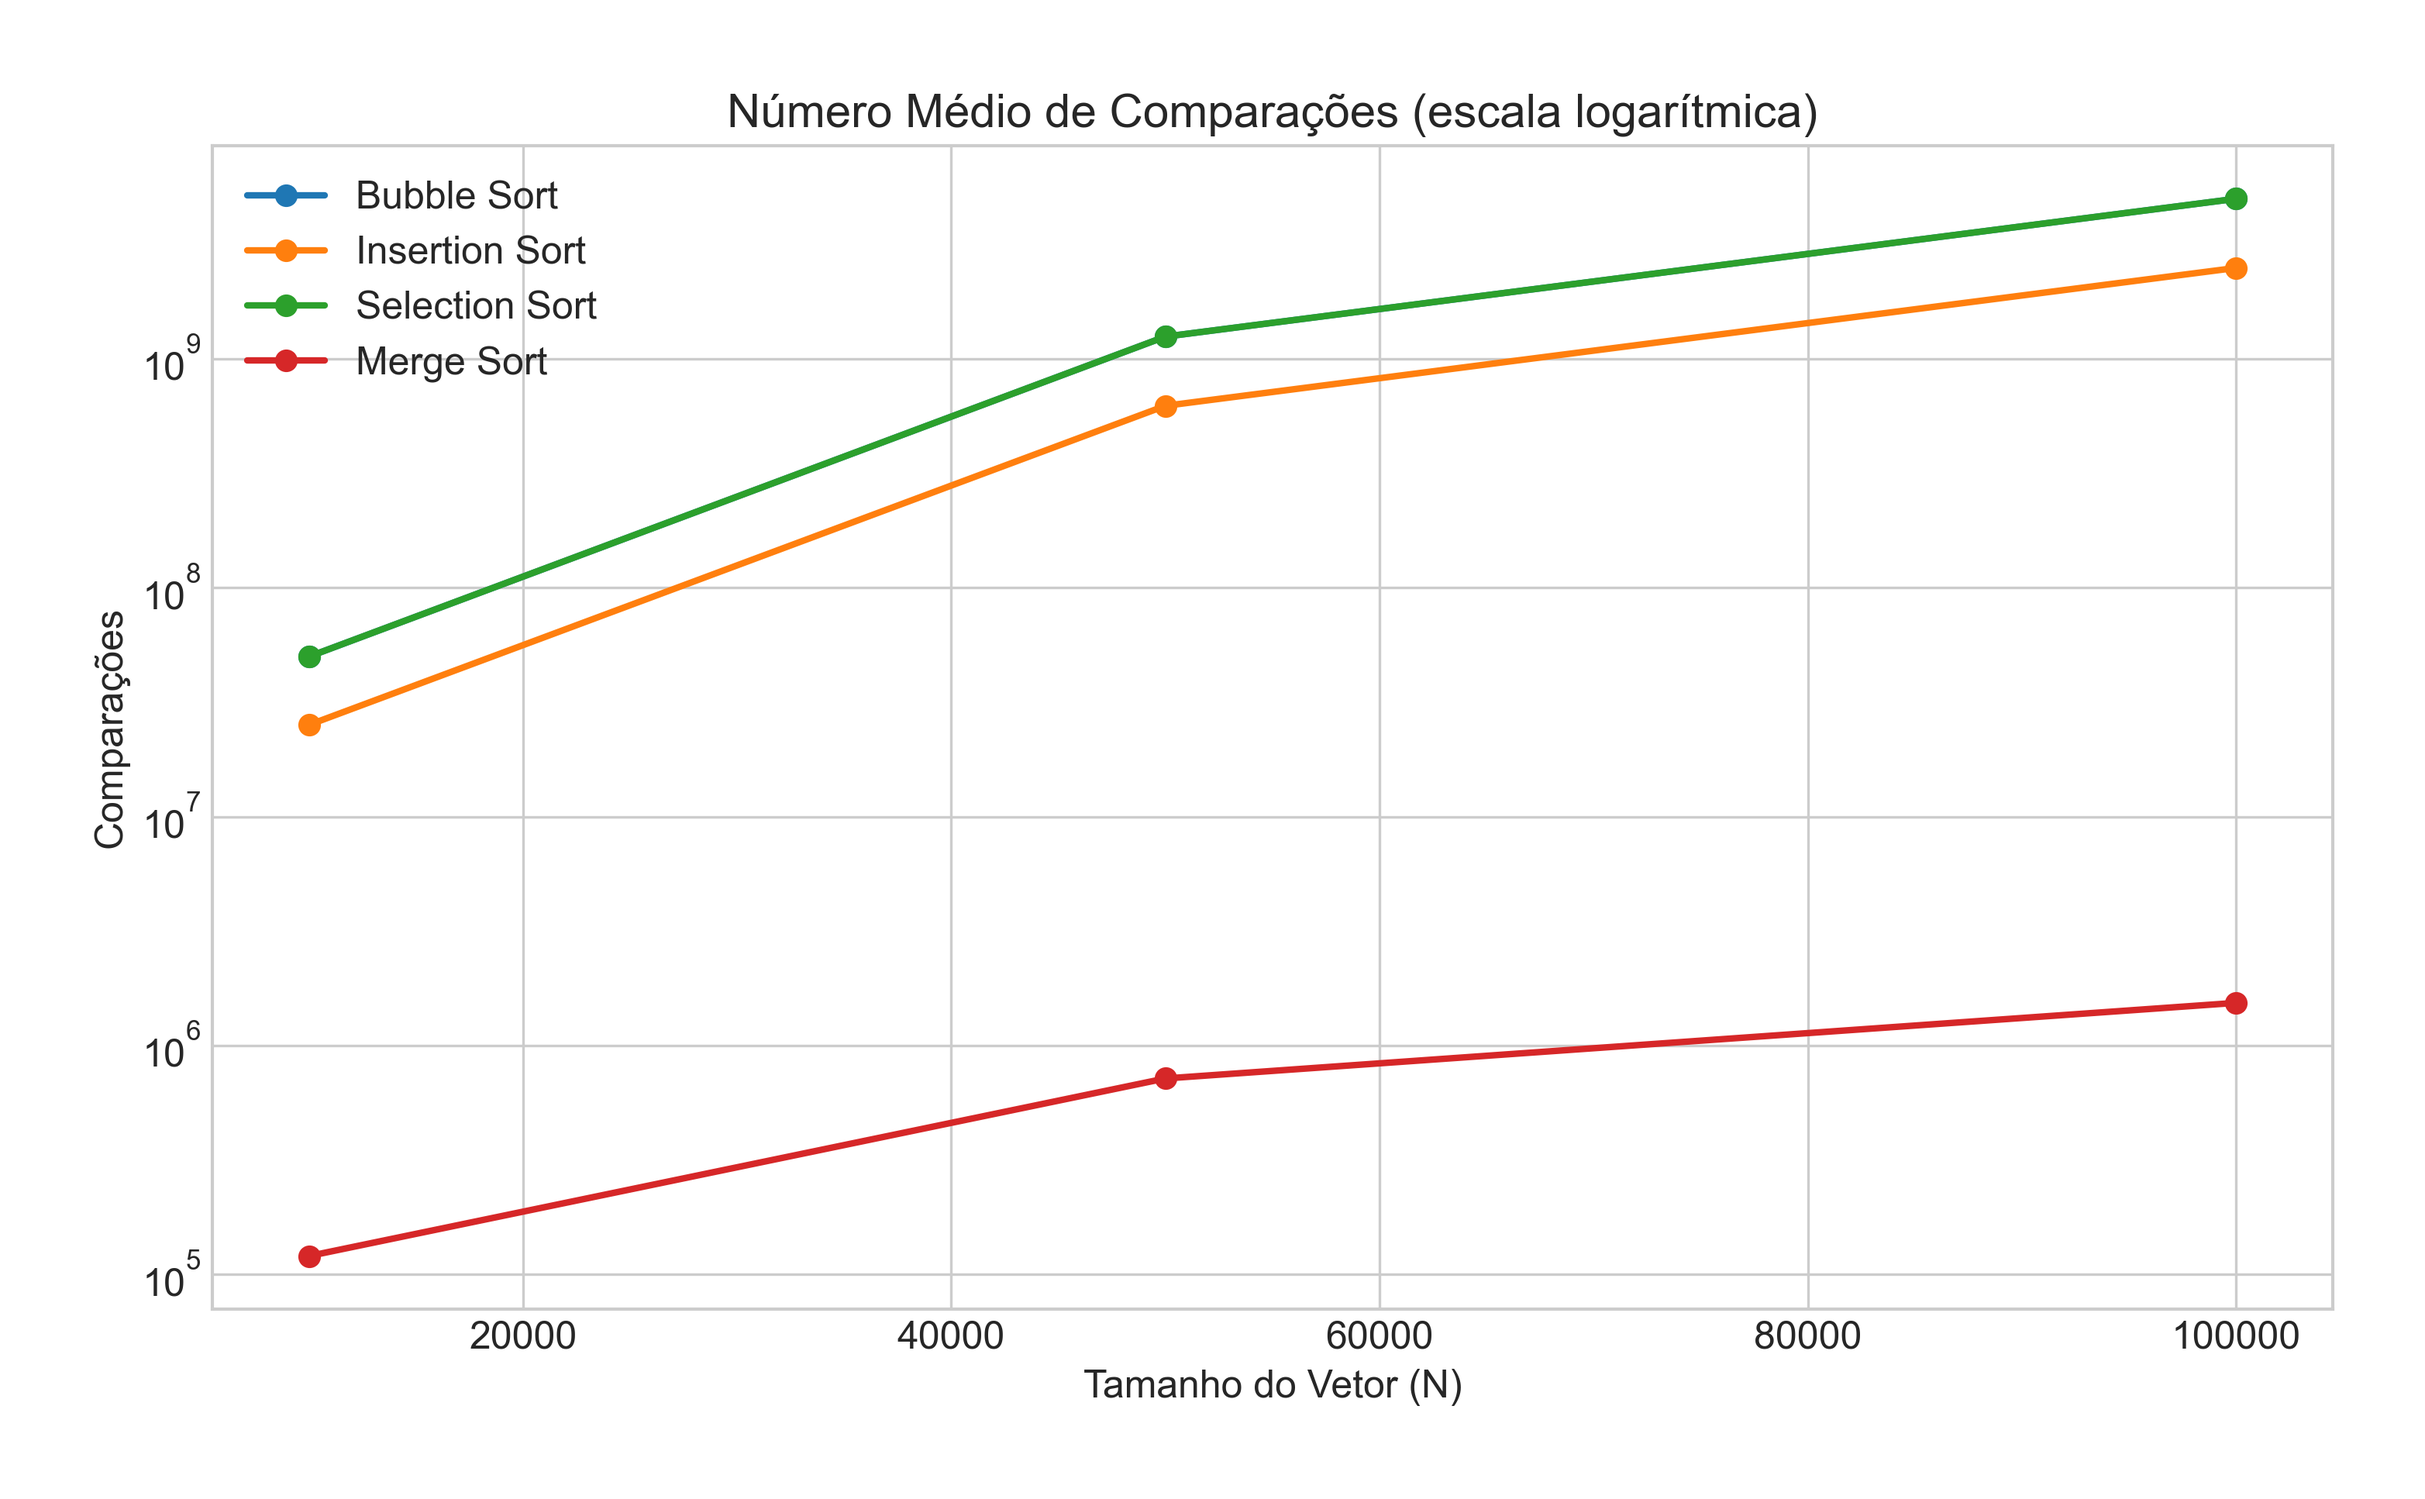
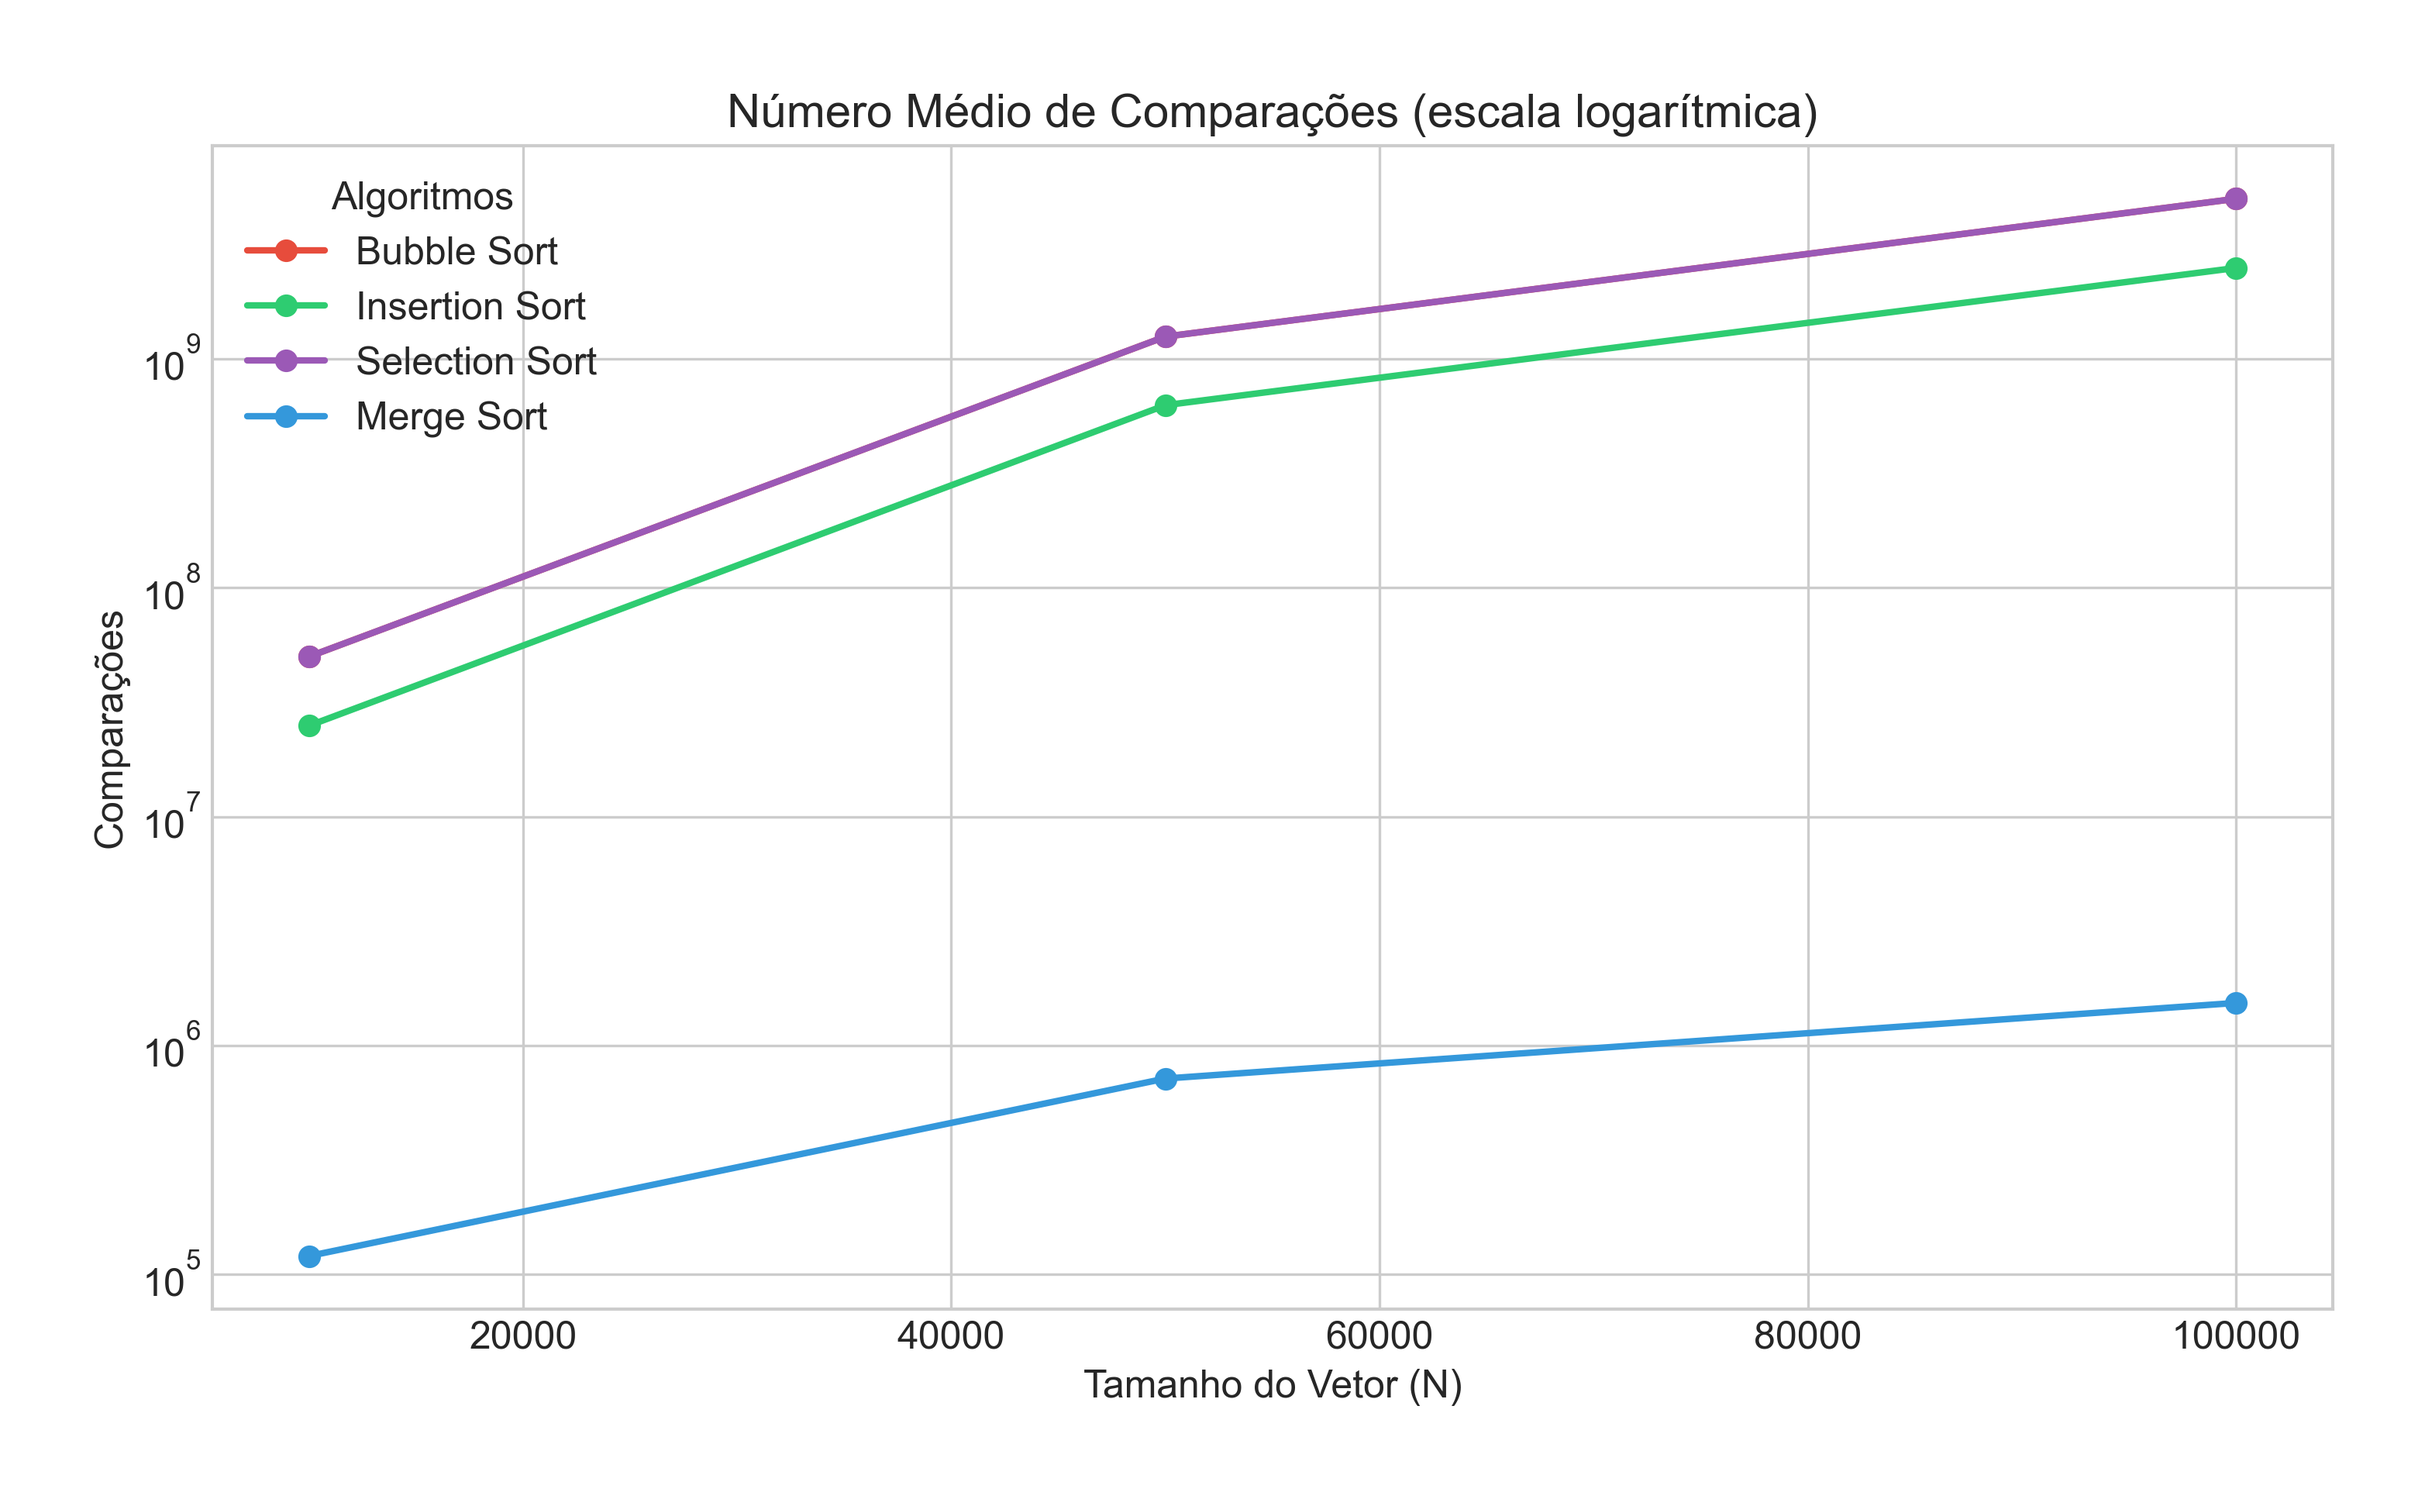
mudando heap_sort e ordenacao

diff --git a/analise-algoritmo-ordenacao/avaliacao_sorts.c b/analise-algoritmo-ordenacao/avaliacao_sorts.c
@@ -5,6 +5,7 @@
 #define TAM1 10000
 #define TAM2 50000
 #define TAM3 100000
+#define REPETICOES 5 // número de execuções para tirar média
 
 void copiarVetor(int *origem, int *destino, int n) {
     for (int i = 0; i < n; i++)
@@ -41,7 +42,7 @@ long long insertionSort(int *X, int n) {
             j--;
         }
         if (j >= 0)
-            comparacoes++;
+            comparacoes++; // última comparação que falha
         X[j + 1] = eleito;
     }
     return comparacoes;
@@ -70,14 +71,13 @@ long long selectionSort(int *X, int n) {
     return comparacoes;
 }
 
-// Merge Sort
-long long comparacoesMerge = 0;
-
-void intercala(int X[], int inicio, int meio, int fim) {
+// Merge Sort (sem variável global)
+void intercala(int X[], int inicio, int meio, int fim, long long *comparacoes) {
     int *aux = (int *)malloc((fim - inicio + 1) * sizeof(int));
     int i = inicio, j = meio + 1, k = 0;
+
     while (i <= meio && j <= fim) {
-        comparacoesMerge++;
+        (*comparacoes)++;
         if (X[i] <= X[j]) aux[k++] = X[i++];
         else aux[k++] = X[j++];
     }
@@ -87,21 +87,22 @@ void intercala(int X[], int inicio, int meio, int fim) {
     free(aux);
 }
 
-void mergeSortRec(int X[], int inicio, int fim) {
+void mergeSortRec(int X[], int inicio, int fim, long long *comparacoes) {
     if (inicio < fim) {
         int meio = (inicio + fim) / 2;
-        mergeSortRec(X, inicio, meio);
-        mergeSortRec(X, meio + 1, fim);
-        intercala(X, inicio, meio, fim);
+        mergeSortRec(X, inicio, meio, comparacoes);
+        mergeSortRec(X, meio + 1, fim, comparacoes);
+        intercala(X, inicio, meio, fim, comparacoes);
     }
 }
 
 long long mergeSort(int *X, int n) {
-    comparacoesMerge = 0;
-    mergeSortRec(X, 0, n - 1);
-    return comparacoesMerge;
+    long long comparacoes = 0;
+    mergeSortRec(X, 0, n - 1, &comparacoes);
+    return comparacoes;
 }
 
+// Função principal
 int main() {
     srand(time(NULL));
 
@@ -124,20 +125,31 @@ int main() {
             original[i] = rand() % 100000;
 
         const char *algoritmos[] = {"Bubble Sort", "Insertion Sort", "Selection Sort", "Merge Sort"};
+
         for (int a = 0; a < 4; a++) {
-            copiarVetor(original, vetor, n);
-            clock_t inicio = clock();
-            long long comparacoes = 0;
+            double tempo_total = 0;
+            long long comparacoes_total = 0;
 
-            if (a == 0) comparacoes = bubbleSort(vetor, n);
-            else if (a == 1) comparacoes = insertionSort(vetor, n);
-            else if (a == 2) comparacoes = selectionSort(vetor, n);
-            else comparacoes = mergeSort(vetor, n);
+            for (int r = 0; r < REPETICOES; r++) {
+                copiarVetor(original, vetor, n);
+                clock_t inicio = clock();
+                long long comparacoes = 0;
 
-            clock_t fim = clock();
-            double tempo = (double)(fim - inicio) / CLOCKS_PER_SEC;
-            fprintf(f, "%s,%d,%.6f,%lld\n", algoritmos[a], n, tempo, comparacoes);
-            printf("%s N=%d concluído.\n", algoritmos[a], n);
+                if (a == 0) comparacoes = bubbleSort(vetor, n);
+                else if (a == 1) comparacoes = insertionSort(vetor, n);
+                else if (a == 2) comparacoes = selectionSort(vetor, n);
+                else comparacoes = mergeSort(vetor, n);
+
+                clock_t fim = clock();
+                tempo_total += (double)(fim - inicio) / CLOCKS_PER_SEC;
+                comparacoes_total += comparacoes;
+            }
+
+            double tempo_medio = tempo_total / REPETICOES;
+            long long comparacoes_medias = comparacoes_total / REPETICOES;
+
+            fprintf(f, "%s,%d,%.6f,%lld\n", algoritmos[a], n, tempo_medio, comparacoes_medias);
+            printf("%s N=%d concluído (média de %d execuções).\n", algoritmos[a], n, REPETICOES);
         }
 
         free(original);
@@ -145,6 +157,6 @@ int main() {
     }
 
     fclose(f);
-    printf("\n Arquivo 'resultados.csv' gerado com sucesso!\n");
+    printf("\n✅ Arquivo 'resultados.csv' gerado com sucesso!\n");
     return 0;
 }

diff --git a/analise-algoritmo-ordenacao/gerar_graficos.py b/analise-algoritmo-ordenacao/gerar_graficos.py
@@ -2,44 +2,60 @@ import pandas as pd
 import matplotlib.pyplot as plt
 import os
 
+# 🔹 Criar pasta de saída automaticamente
 pasta_imagens = "imagens"
 os.makedirs(pasta_imagens, exist_ok=True)
 
 plt.style.use('seaborn-v0_8-whitegrid')
 plt.rcParams.update({'font.size': 12, 'figure.figsize': (10, 6)})
 
-df = pd.read_csv("output/resultados.csv")
+# 1⃣ Ler arquivo CSV
+df = pd.read_csv("resultados.csv")
 
 # Exibir tabela no terminal
 print("\n===== RESULTADOS =====\n")
 print(df.to_string(index=False))
 
+# Dicionário de cores fixas para cada algoritmo
+cores = {
+    "Bubble Sort": "#e74c3c",     # vermelho
+    "Insertion Sort": "#2ecc71",  # verde
+    "Selection Sort": "#9b59b6",  # roxo
+    "Merge Sort": "#3498db"       # azul
+}
+
+# 2⃣ Gráfico: Tempo de Execução
 plt.figure()
 for algoritmo in df["Algoritmo"].unique():
     dados = df[df["Algoritmo"] == algoritmo]
-    plt.plot(dados["N"], dados["TempoSegundos"], marker="o", linewidth=2, label=algoritmo)
+    plt.plot(dados["N"], dados["TempoSegundos"], marker="o", linewidth=2,
+             label=algoritmo, color=cores.get(algoritmo, None))
 
 plt.title("Tempo Médio de Execução (s)")
 plt.xlabel("Tamanho do Vetor (N)")
 plt.ylabel("Tempo (segundos)")
-plt.legend()
+plt.legend(title="Algoritmos", loc="upper left")
 plt.tight_layout()
 plt.savefig(f"{pasta_imagens}/grafico_tempo_execucao.png", dpi=300, bbox_inches="tight", pad_inches=0.4)
 plt.show()
+
+# 3⃣ Gráfico: Número de Comparações
 plt.figure()
 for algoritmo in df["Algoritmo"].unique():
     dados = df[df["Algoritmo"] == algoritmo]
-    plt.plot(dados["N"], dados["Comparacoes"], marker="o", linewidth=2, label=algoritmo)
+    plt.plot(dados["N"], dados["Comparacoes"], marker="o", linewidth=2,
+             label=algoritmo, color=cores.get(algoritmo, None))
 
 plt.title("Número Médio de Comparações (escala logarítmica)")
 plt.xlabel("Tamanho do Vetor (N)")
 plt.ylabel("Comparações")
 plt.yscale("log")
-plt.legend()
+plt.legend(title="Algoritmos", loc="upper left")
 plt.tight_layout()
 plt.savefig(f"{pasta_imagens}/grafico_comparacoes.png", dpi=300, bbox_inches="tight", pad_inches=0.4)
 plt.show()
 
+# 4⃣ Tabela estilo relatório (melhorada)
 fig, ax = plt.subplots(figsize=(9, 3))
 ax.axis('tight')
 ax.axis('off')
@@ -61,7 +77,7 @@ table.auto_set_font_size(False)
 table.set_fontsize(10)
 table.scale(1.2, 1.4)
 
-# Estilo de cabeçalho
+# Estilo do cabeçalho e linhas
 for (i, j), cell in table.get_celld().items():
     if i == 0:
         cell.set_text_props(weight='bold', color='white')
@@ -69,9 +85,10 @@ for (i, j), cell in table.get_celld().items():
     else:
         cell.set_facecolor('#ecf0f1')
 
-# Título com mais espaçamento
 plt.title("Tabela de Resultados dos Algoritmos de Ordenação", pad=30, fontsize=14, fontweight='bold')
 
-# Salvar com margens extras
+# Salvar imagem na pasta
 plt.savefig(f"{pasta_imagens}/tabela_resultados.png", dpi=300, bbox_inches="tight", pad_inches=0.4)
 plt.show()
+
+print(f"\n✅ Imagens salvas na pasta: '{pasta_imagens}/'")

diff --git a/analise-heap-sort/heap-sort.c b/analise-heap-sort/heap-sort.c
@@ -23,12 +23,18 @@ void max_heapify(int arr[], int n, int i) {
     int esquerda = 2 * i + 1;
     int direita = 2 * i + 2;
 
-    comparacoes++;
-    if (esquerda < n && arr[esquerda] > arr[maior])
-        maior = esquerda;
-    comparacoes++;
-    if (direita < n && arr[direita] > arr[maior])
-        maior = direita;
+    if (esquerda < n) {
+        comparacoes++;
+        if (arr[esquerda] > arr[maior])
+            maior = esquerda;
+    }
+
+    if (direita < n) {
+        comparacoes++;
+        if (arr[direita] > arr[maior])
+            maior = direita;
+    }
+
     if (maior != i) {
         swap(&arr[i], &arr[maior]);
         max_heapify(arr, n, maior);
